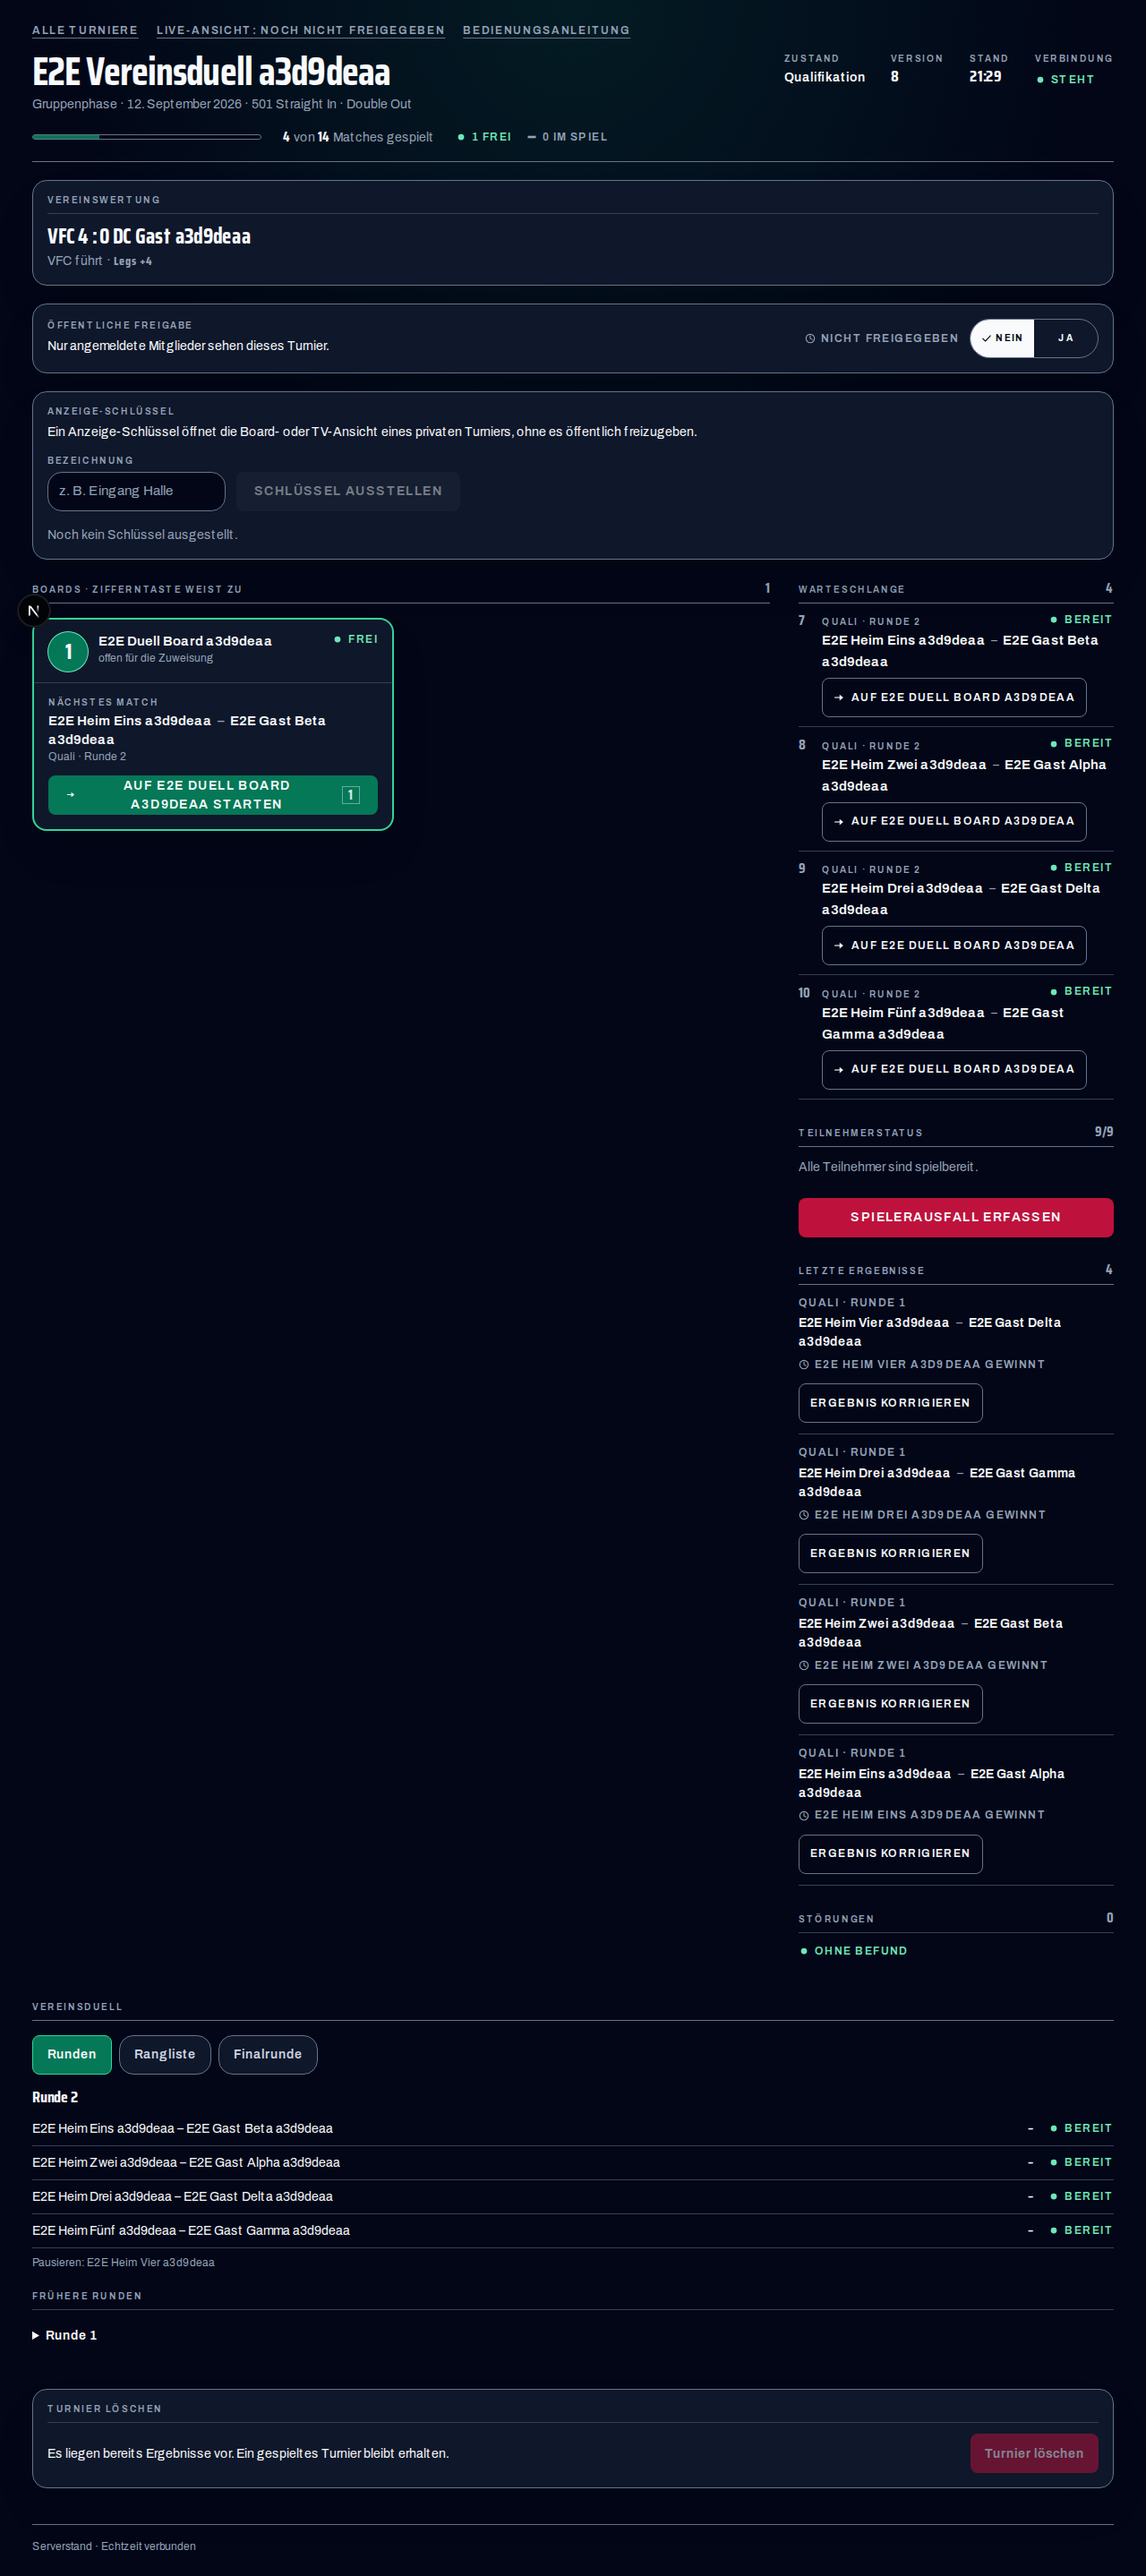
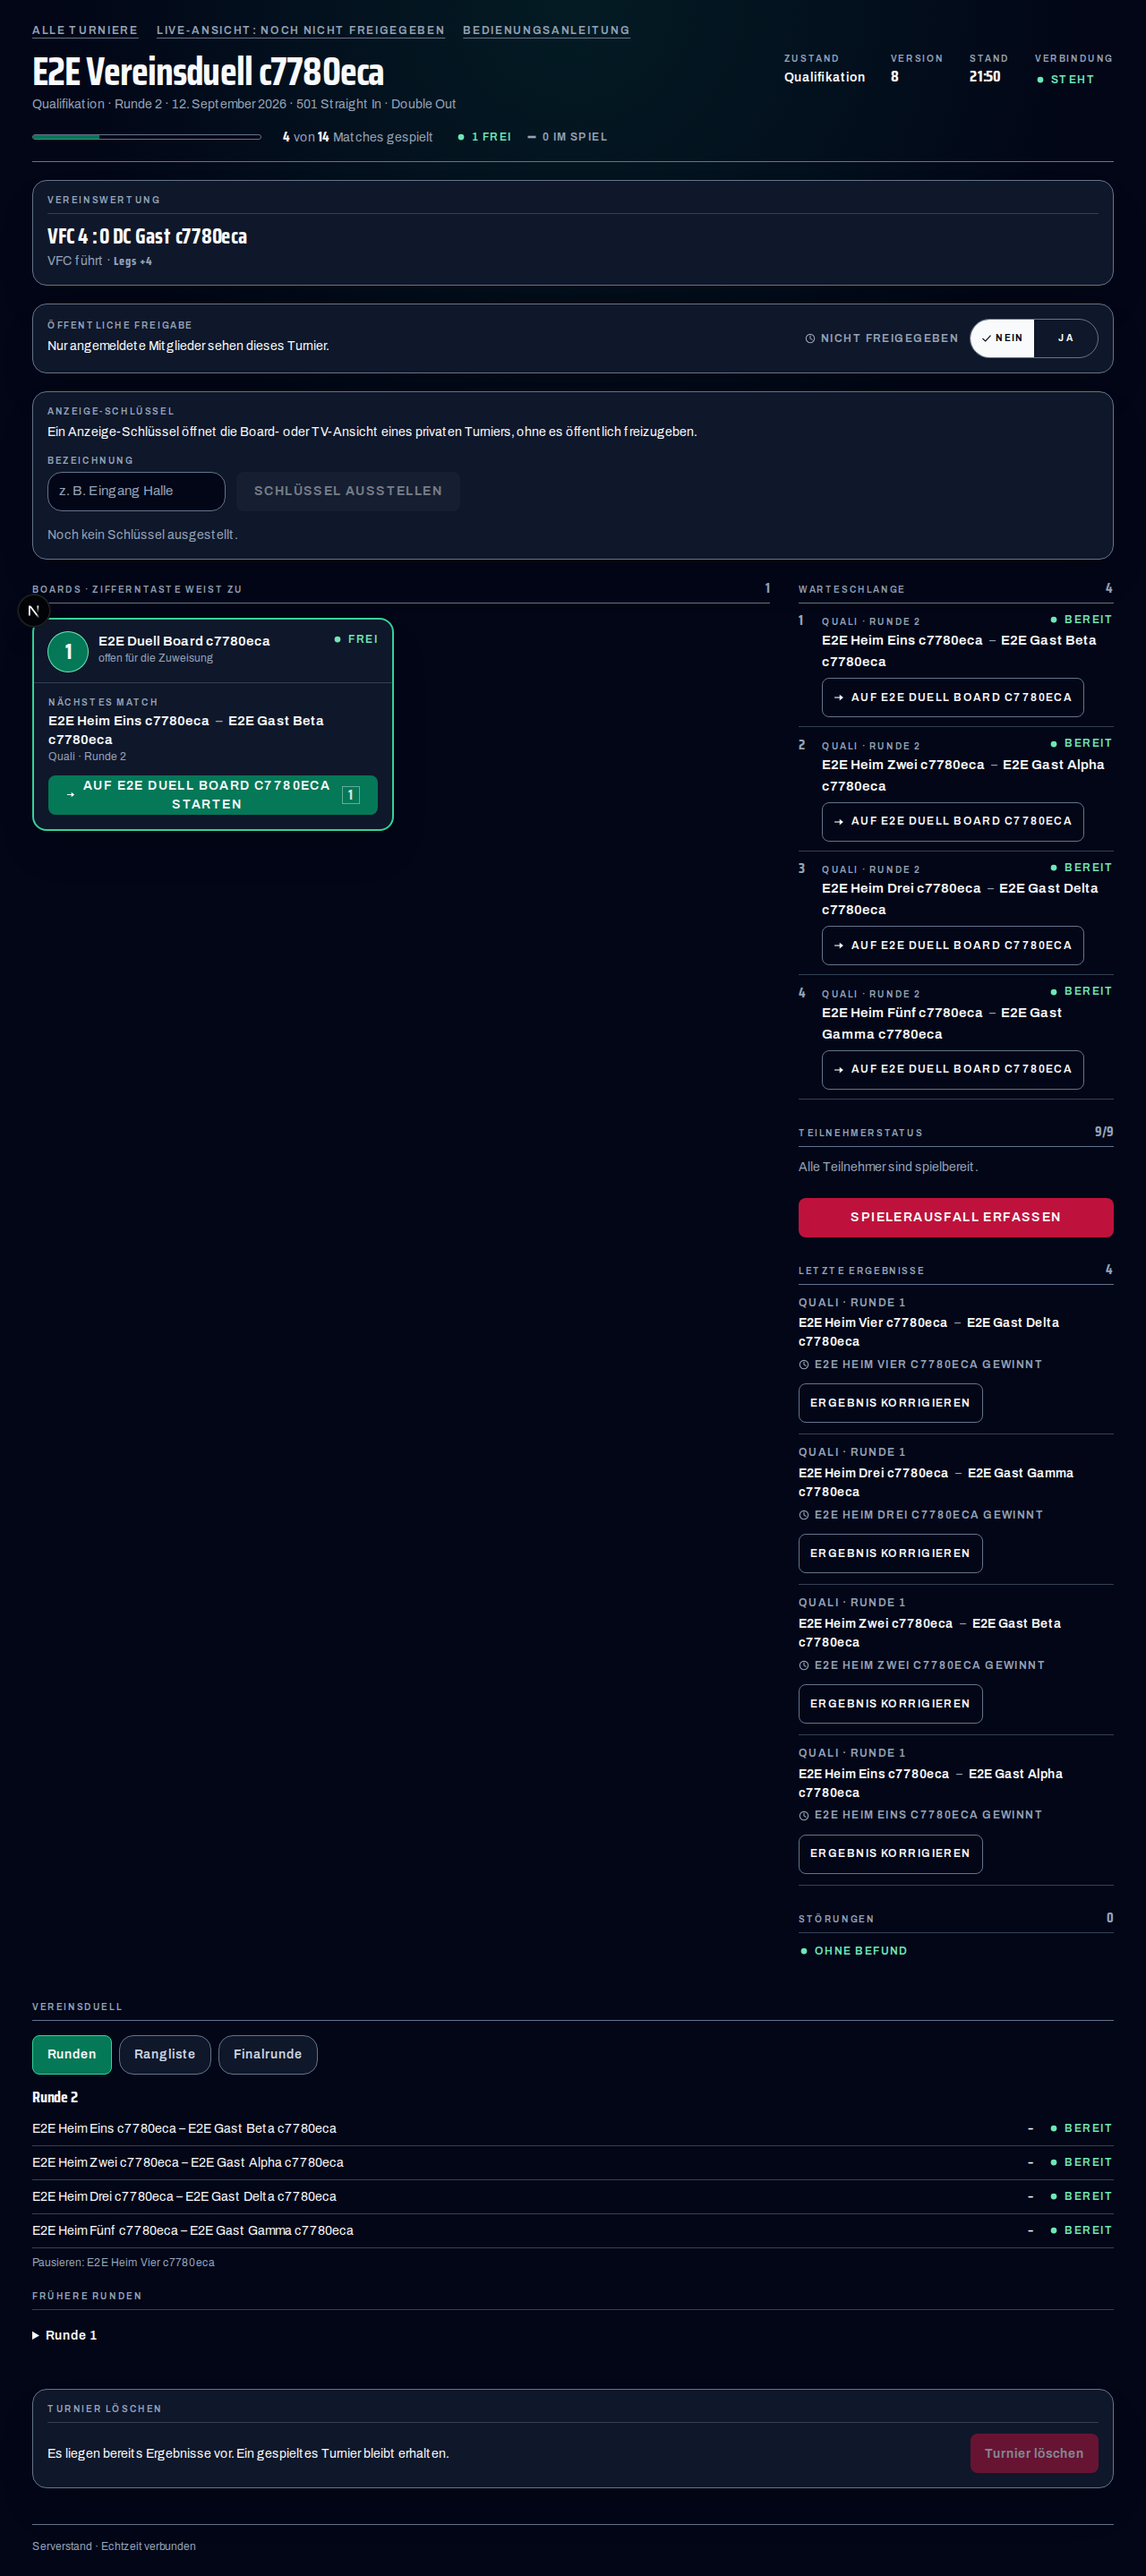
fix(web): Beamer bricht Spielernamen um, Screenshots aktualisiert
Laufende und naechste Spiele stehen im TV-Modus auf hoechstens zwei
Spalten; die Namen brechen auf eigener Zeile um, Legs und Status folgen
darunter. Bei 1280px und drei Spalten waren die Namen abgeschnitten.
Die Bildschirmfotos zeigen zudem die neue Phasenbezeichnung.

diff --git a/apps/web/src/components/live/live-tournament.render.spec.tsx b/apps/web/src/components/live/live-tournament.render.spec.tsx
@@ -71,7 +71,7 @@ const clubDuel: ClubDuelDashboard = {
 };
 const clubDuelDashboard = {
   ...dashboard,
-  tournament: { ...dashboard.tournament, name: "Vereinsduell VFC", stageLabel: "Quali-Runde 2" },
+  tournament: { ...dashboard.tournament, name: "Vereinsduell VFC", stageLabel: "Qualifikation · Runde 2" },
   participants: [
     { playerId: id(1), displayName: "Anna", status: "ACTIVE", side: "A" },
     { playerId: id(2), displayName: "Aron", status: "ACTIVE", side: "A" },
@@ -136,11 +136,15 @@ describe("LiveTournament – Vereinsduell", () => {
 
     const running = screen.getByRole("heading", { name: "Laufende Spiele" }).closest("section") as HTMLElement;
     expect(within(running).getByText("Anna – Bia")).toBeTruthy();
+    // Die Namen brechen um statt abgeschnitten zu werden (Beamer bei 1280px).
+    expect(within(running).getByText("Anna – Bia").className).not.toContain("truncate");
+    expect(within(running).getByRole("list").className).not.toContain("grid-cols-3");
     expect(within(running).getByText("läuft")).toBeTruthy();
     expect(within(running).queryByText("Aron – Beat")).toBeNull();
 
     const next = screen.getByRole("heading", { name: "Nächste Spiele" }).closest("section") as HTMLElement;
     expect(within(next).getByText("Aron – Beat")).toBeTruthy();
+    expect(within(next).getByText("Aron – Beat").className).not.toContain("truncate");
     expect(within(next).getByText("bereit")).toBeTruthy();
     expect(within(next).queryByText("Anna – Bia")).toBeNull();
     expect(screen.queryByText("Anna – Beat")).toBeNull();
@@ -167,7 +171,7 @@ describe("LiveTournament – Vereinsduell", () => {
 describe("LiveTournament – Vereinsduell ohne Projektion", () => {
   const withoutProjection = {
     ...dashboard,
-    tournament: { ...dashboard.tournament, format: "CLUB_DUEL", stageLabel: "Quali-Runde 1" },
+    tournament: { ...dashboard.tournament, format: "CLUB_DUEL", stageLabel: "Qualifikation" },
     clubDuel: null,
   };
 

diff --git a/apps/web/src/components/live/live-tournament.tsx b/apps/web/src/components/live/live-tournament.tsx
@@ -316,15 +316,19 @@ function ClubMatchList({ clubDuel, empty, participants, status, title }: {
   return (
     <LiveSection title={title}>
       {matches.length === 0 ? <p className="text-body text-sisal-500">{empty}</p> : (
-        <ul className="grid gap-2 sm:grid-cols-2 xl:grid-cols-3">
+        // Hoechstens zwei Spalten und die Namen auf eigener Zeile: bei 1280px
+        // und drei Spalten schnitt der Beamer Spielernamen ab.
+        <ul className="grid gap-2 sm:grid-cols-2">
           {matches.map((match) => {
             const walkover = match.resultType === "WALKOVER";
             const state = walkover ? walkoverState : roundMatchStateLabel(match.status);
             return (
-              <li className="flex items-center justify-between gap-3 rounded-lg border border-sisal-400 bg-sisal-100 px-4 py-3 text-title-sm" key={match.matchId}>
-                <span className="min-w-0 flex-1 truncate">{name(match.playerAId)} – {name(match.playerBId)}</span>
-                <span className="shrink-0 font-numerals tabular">{matchOutcomeText(match, walkover, name)}</span>
-                <StateTag label={state.label} tone={state.tone} />
+              <li className="flex flex-col gap-2 rounded-lg border border-sisal-400 bg-sisal-100 px-4 py-3 text-title-sm" key={match.matchId}>
+                <span className="min-w-0 whitespace-normal break-words">{name(match.playerAId)} – {name(match.playerBId)}</span>
+                <span className="flex items-center justify-between gap-3">
+                  <span className="font-numerals tabular">{matchOutcomeText(match, walkover, name)}</span>
+                  <StateTag label={state.label} tone={state.tone} />
+                </span>
               </li>
             );
           })}
